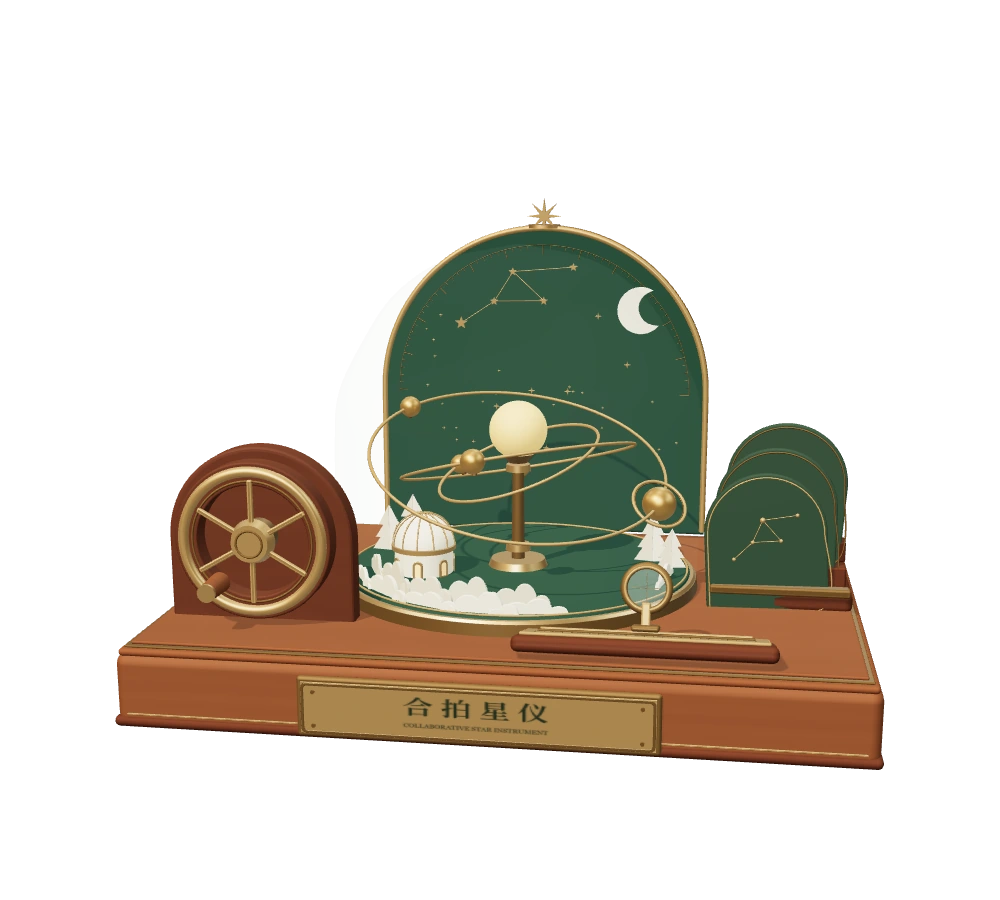
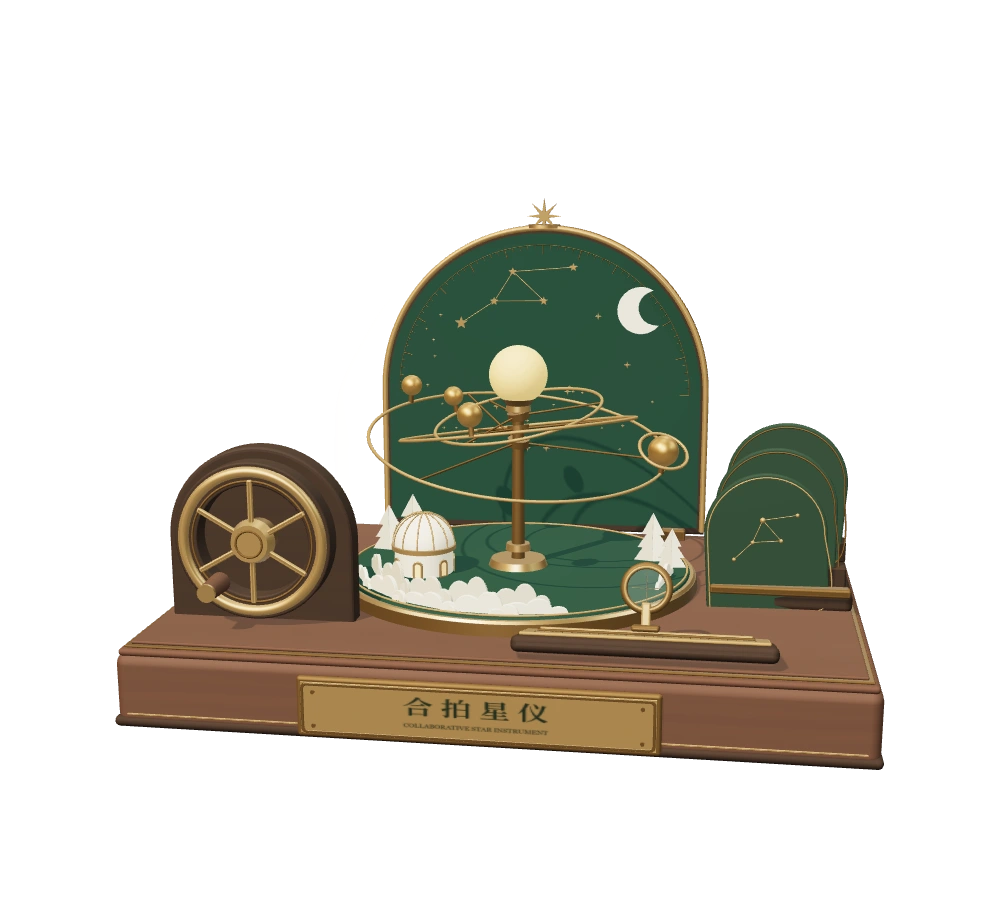
Add optional quick-start guide and cabinet navigation; refine star instrument structure

Changed region(s): [[0.093, 0.3733, 0.899, 0.8711], [0.465, 0.5911, 0.62, 0.6222]]

diff --git a/src/commissions/StarInstrument.tsx b/src/commissions/StarInstrument.tsx
@@ -1,6 +1,6 @@
 import { useEffect, useMemo, useRef } from 'react';
 import { useThree, type ThreeEvent } from '@react-three/fiber';
-import { CanvasTexture, CatmullRomCurve3, DoubleSide, ExtrudeGeometry, Group, LatheGeometry, MathUtils, MeshPhysicalMaterial, MeshStandardMaterial, Path, Plane, Shape, SRGBColorSpace, TubeGeometry, Vector2, Vector3 } from 'three';
+import { CanvasTexture, CatmullRomCurve3, FrontSide, ExtrudeGeometry, Group, LatheGeometry, MathUtils, MeshPhysicalMaterial, MeshStandardMaterial, Path, Plane, Shape, SRGBColorSpace, TubeGeometry, Vector2, Vector3 } from 'three';
 import { BeveledBox, useGeometry } from '../lab3d/Geometry';
 import { useLabMaterials, type LabMaterials } from '../lab3d/materials';
 import StarInstrumentDetails, { INSTRUMENT_CONSTELLATIONS } from './StarInstrumentDetails';
@@ -51,6 +51,7 @@ export default function StarInstrument(props:StarInstrumentProps){
   const wheelPlane=useRef(new Plane(new Vector3(0,0,1),-(WHEEL.z+.33)));
   const aimPlane=useRef(new Plane(new Vector3(0,0,1),-1.36)),hit=useRef(new Vector3());
   const back=useGeometry(()=>new ExtrudeGeometry(arch(4,1.02,2.75),{depth:.095,bevelEnabled:true,bevelSegments:3,bevelSize:.025,bevelThickness:.018,curveSegments:64}),[]);
+  const backInset=useGeometry(()=>new ExtrudeGeometry(arch(3.88,1.08,2.75),{depth:.025,bevelEnabled:false,curveSegments:64}),[]);
   const housing=useGeometry(()=>new ExtrudeGeometry(arch(1.84,.81,1.77),{depth:.19,bevelEnabled:true,bevelSegments:3,bevelSize:.045,bevelThickness:.025,curveSegments:48}),[]);
   const card=useGeometry(()=>new ExtrudeGeometry(arch(1.23,-.69,.13),{depth:.055,bevelEnabled:true,bevelSegments:2,bevelSize:.018,bevelThickness:.01,curveSegments:48}),[]);
   const wheelRim=useGeometry(()=>{
@@ -82,7 +83,7 @@ export default function StarInstrument(props:StarInstrumentProps){
     const backdrop=materials.velvet.clone();backdrop.color.set('#173d30');backdrop.roughness=.91;
     const chart=materials.velvet.clone();chart.color.set('#243d2e');chart.roughness=.82;
     const sun=new MeshStandardMaterial({color:'#f5dfab',map:texture,emissive:'#e7bd6c',emissiveIntensity:.38,roughness:.81,metalness:0});
-    const glassMaterial=new MeshPhysicalMaterial({color:'#bdd0b9',transparent:true,opacity:.032,roughness:.15,metalness:0,clearcoat:.65,clearcoatRoughness:.20,side:DoubleSide,depthWrite:false,envMapIntensity:.7});
+    const glassMaterial=new MeshPhysicalMaterial({color:'#e5e7df',transparent:true,opacity:.012,roughness:.08,metalness:0,clearcoat:.3,clearcoatRoughness:.20,side:FrontSide,depthWrite:false,envMapIntensity:.7});
     const lens=glassMaterial.clone();lens.opacity=.25;lens.color.set('#b5c7b1');
     return{orbit,planet,backdrop,chart,sun,glassMaterial,lens,texture};
   },[materials]);
@@ -148,7 +149,9 @@ export default function StarInstrument(props:StarInstrumentProps){
     {/* The arch is a thick real backboard; the cover is a distinct curved shell. */}
     {/* The rear face includes clearance for the tilted Saturn ring and bevel,
         even when the common shaft is turned through a complete revolution. */}
-    <mesh name="star-instrument-backboard" geometry={back} position={[0,0,-2.49]} material={extra.backdrop} castShadow receiveShadow/>
+    <mesh name="star-instrument-backboard" geometry={back} position={[0,0,-2.49]} material={materials.woodEdge} castShadow receiveShadow/>
+    <mesh geometry={backInset} position={[0,0,-2.39]} material={extra.backdrop} receiveShadow/>
+    {[-1.65,1.65].map(x=><BeveledBox key={x} name="star-screen-foot" size={[.30,.14,.35]} position={[x,1,-2.43]} radius={.025} material={materials.brassDark}/>)}
     <mesh geometry={archRim} position={[0,0,-2.38]} material={extra.orbit} castShadow/>
     <mesh geometry={archRim} position={[0,0,-2.525]} material={materials.brassDark}/>
     <mesh name="star-instrument-glass" geometry={glass} position={[0,0,-.25]} material={extra.glassMaterial} renderOrder={8}/>
@@ -158,16 +161,16 @@ export default function StarInstrument(props:StarInstrumentProps){
     <mesh position={[0,1.129,-.25]} rotation={[Math.PI/2,0,0]} material={materials.brass}><torusGeometry args={[1.88,.012,8,128]}/></mesh>
 
     {/* Three differently inclined, physically round tracks with spherical planets. */}
-    <group name="star-instrument-orbits" position={[0,2.30,-.25]} rotation={[0,props.orbitAngle,0]}>
-      <OrbitRing radius={1.64} tilt={[.30,0,-.15]} planets={[[.25,.185],[3.7,.12]]} materials={materials} ringMaterial={extra.orbit} planetMaterial={extra.planet} saturn/>
-      <OrbitRing radius={1.30} tilt={[-.24,0,.18]} planets={[[1.8,.13],[4.6,.105]]} materials={materials} ringMaterial={extra.orbit} planetMaterial={extra.planet}/>
-      <OrbitRing radius={.93} tilt={[.18,0,.32]} planets={[[3.7,.11]]} materials={materials} ringMaterial={extra.orbit} planetMaterial={extra.planet}/>
+    <group name="star-instrument-orbits" position={[0,2.52,-.25]} rotation={[0,props.orbitAngle,0]}>
+      <OrbitRing radius={1.64} elevation={0} tilt={[.16,0,-.10]} planets={[[.25,.165],[3.7,.12]]} materials={materials} ringMaterial={extra.orbit} planetMaterial={extra.planet} saturn/>
+      <OrbitRing radius={1.30} elevation={.15} tilt={[-.14,0,.12]} planets={[[1.8,.13],[4.6,.105]]} materials={materials} ringMaterial={extra.orbit} planetMaterial={extra.planet}/>
+      <OrbitRing radius={.93} elevation={.30} tilt={[.13,0,.18]} planets={[[3.7,.11]]} materials={materials} ringMaterial={extra.orbit} planetMaterial={extra.planet}/>
     </group>
-    <mesh name="star-instrument-main-shaft" position={[0,1.69,-.25]} material={materials.brassDark} castShadow><cylinderGeometry args={[.061,.075,1.14,32]}/></mesh>
-    {[1.17,1.34,2.24].map((y,i)=><mesh key={y} position={[0,y,-.25]} material={extra.orbit} castShadow><cylinderGeometry args={[i===0?.30:.13,i===0?.33:.14,i===0?.08:.075,48]}/></mesh>)}
-    <mesh position={[0,2.36,-.25]} material={materials.brassDark} castShadow><cylinderGeometry args={[.20,.11,.12,48]}/></mesh>
-    <mesh name="star-instrument-sun" position={[0,2.66,-.25]} material={extra.sun} castShadow><sphereGeometry args={[.32,48,32]}/></mesh>
-    <pointLight position={[0,2.67,-.20]} color="#f0c679" intensity={.6} distance={3.7} decay={2}/>
+    <mesh name="star-instrument-main-shaft" position={[0,2.035,-.25]} material={materials.brassDark} castShadow><cylinderGeometry args={[.061,.075,1.83,32]}/></mesh>
+    {[1.17,1.34,2.91].map((y,i)=><mesh key={y} position={[0,y,-.25]} material={extra.orbit} castShadow><cylinderGeometry args={[i===0?.30:.13,i===0?.33:.14,i===0?.08:.075,48]}/></mesh>)}
+    <mesh position={[0,2.97,-.25]} material={materials.brassDark} castShadow><cylinderGeometry args={[.20,.11,.12,48]}/></mesh>
+    <mesh name="star-instrument-sun" position={[0,3.27,-.25]} material={extra.sun} castShadow><sphereGeometry args={[.32,48,32]}/></mesh>
+    <pointLight position={[0,3.28,-.20]} color="#f0c679" intensity={.6} distance={3.7} decay={2}/>
 
     {/* Front-facing wooden hand wheel: its spokes and handle really rotate. */}
     <group name="star-instrument-wheel-assembly">
@@ -229,17 +232,19 @@ export default function StarInstrument(props:StarInstrumentProps){
   </group>;
 }
 
-function OrbitRing({radius,tilt,planets,materials,ringMaterial,planetMaterial,saturn=false}:{radius:number;tilt:[number,number,number];planets:[number,number][];materials:LabMaterials;ringMaterial:MeshStandardMaterial;planetMaterial:MeshStandardMaterial;saturn?:boolean}){
+function OrbitRing({radius,elevation,tilt,planets,materials,ringMaterial,planetMaterial,saturn=false}:{radius:number;elevation:number;tilt:[number,number,number];planets:[number,number][];materials:LabMaterials;ringMaterial:MeshStandardMaterial;planetMaterial:MeshStandardMaterial;saturn?:boolean}){
   // The complete circular tubes can rotate through 360° in front of the rear
   // board. Each tube retains a round section; planets are not scaled flat.
   const depth=1;
   const geometry=useGeometry(()=>new TubeGeometry(new CatmullRomCurve3(Array.from({length:64},(_,index)=>{const angle=index/64*Math.PI*2;return new Vector3(Math.cos(angle)*radius,0,Math.sin(angle)*radius*depth);}),true),160,.018,10,true),[radius]);
-  return <group name={`star-instrument-orbit-${radius}`} rotation={tilt}>
+  return <group name={`star-instrument-orbit-${radius}`} position={[0,elevation,0]} rotation={tilt}>
+    <mesh name={`star-instrument-bearing-${radius}`} material={materials.brassDark}><cylinderGeometry args={[.12,.12,.08,24]}/></mesh>
+    {[0,1,2].map(index=><group key={index} rotation={[0,index*Math.PI*2/3,0]}><mesh name="orbit-support-spoke" position={[radius/2,0,0]} rotation={[0,0,-Math.PI/2]} material={materials.brassDark}><cylinderGeometry args={[.012,.012,radius,8]}/></mesh></group>)}
     <mesh name={`star-instrument-orbit-tube-${radius}`} geometry={geometry} material={ringMaterial} castShadow/>
     {planets.map(([angle,size],index)=><group name={`star-instrument-planet-mount-${radius}-${index}`} key={angle} position={[Math.cos(angle)*radius,0,Math.sin(angle)*radius*depth]}>
-      <mesh name={`star-instrument-planet-${radius}-${index}`} material={planetMaterial} castShadow receiveShadow><sphereGeometry args={[size,36,24]}/></mesh>
-      <mesh position={[0,-size*.82,0]} material={materials.brassDark}><cylinderGeometry args={[.032,.026,.08,16]}/></mesh>
-      {saturn&&index===0&&<group name="star-instrument-saturn-crown" rotation={[.35,0,-.22]}><mesh rotation={[Math.PI/2,0,0]} material={ringMaterial}><torusGeometry args={[size*1.6,.018,8,64]}/></mesh><mesh rotation={[Math.PI/2,0,0]} material={materials.brassDark}><torusGeometry args={[size*1.48,.005,6,64]}/></mesh></group>}
+      <mesh name={`star-instrument-planet-${radius}-${index}`} position={[0,size+.09,0]} material={planetMaterial} castShadow receiveShadow><sphereGeometry args={[size,36,24]}/></mesh>
+      <mesh name="planet-support-stem" position={[0,.07,0]} material={materials.brassDark}><cylinderGeometry args={[.025,.032,.14,16]}/></mesh>
+      {saturn&&index===0&&<group name="star-instrument-saturn-crown" position={[0,size+.09,0]} rotation={[.35,0,-.22]}><mesh rotation={[Math.PI/2,0,0]} material={ringMaterial}><torusGeometry args={[size*1.6,.018,8,64]}/></mesh><mesh rotation={[Math.PI/2,0,0]} material={materials.brassDark}><torusGeometry args={[size*1.48,.005,6,64]}/></mesh></group>}
     </group>)}
   </group>;
 }

diff --git a/src/responsive-polish.css b/src/responsive-polish.css
@@ -184,9 +184,49 @@
 .stage-gears .tool-panel:has(.parts-tray .selected)>.ask-button>strong{color:#f2ddb1}
 
 /* The collection is reachable immediately, alongside the sound control. */
-.museum-nav{display:inline-flex;align-items:center;gap:12px;min-height:44px;padding:7px 10px;background:none;border:0;color:#d8cfaf;font-size:13px;white-space:nowrap}
-.museum-nav:hover{color:#f0d4a3}
-.museum-nav>span{font-size:18px}
+.site-header .collection-entry,.site-header .quick-guide-trigger{display:inline-flex;align-items:center;justify-content:center;gap:9px;min-height:44px;padding:8px 13px;color:#e2d2ac;font-size:13px;white-space:nowrap;border-radius:4px}
+.site-header .collection-entry{background:#30443c;border:1px solid #9c8c626b}
+.site-header .collection-entry:hover{background:#405344;border-color:#c8b484}
+.site-header .quick-guide-trigger{background:none;border:1px solid transparent;color:#d5dcc4}
+.site-header .quick-guide-trigger:hover{background:#bcc4a411}
+.collection-entry svg,.quick-guide-trigger svg{width:22px;height:22px;flex-shrink:0}
+.site-header .collection-entry:focus-visible,.quick-guide-trigger:focus-visible{outline:2px solid #e1c48f;outline-offset:4px}
+.quick-guide{position:fixed;inset:var(--guide-top,90px) max(16px,5.2vw) auto auto;width:min(430px,calc(100vw - 28px));max-height:calc(100dvh - var(--guide-top,90px) - 16px);overflow-y:auto;overscroll-behavior:contain;margin:0;padding:25px 28px 22px;border:0;box-shadow:0 15px 45px #071c2166;color:#2d493d;scrollbar-width:thin;scrollbar-color:#8d9876 #e8e1c9}
+.quick-guide::backdrop{background:transparent}
+.quick-guide-heading{display:flex;align-items:center;justify-content:space-between;gap:12px}
+.quick-guide-heading h2{font-family:'Songti SC','SimSun',serif;font-size:24px;font-weight:500;line-height:1.5;margin:0}
+.quick-guide-close{display:grid;place-items:center;min-width:40px;min-height:40px;padding:8px;background:none;border:0;color:#3e5846}
+.quick-guide-close svg{width:20px;height:20px}
+.quick-guide-intro{font-size:13px;line-height:1.8;margin:9px 0 23px;color:#506248}
+.quick-guide-steps{list-style:none;margin:0;padding:0;display:grid;gap:19px}
+.quick-guide-steps li{display:grid;grid-template-columns:26px 1fr;gap:13px}
+.quick-guide-steps li>span{font:italic 20px Georgia,serif;color:#856137;padding-top:3px}
+.quick-guide-steps h3{font-size:16px;font-weight:500;line-height:1.5;margin:0 0 5px}
+.quick-guide-steps p{font-size:13px;line-height:1.8;color:#4b5e47;margin:0}
+.quick-guide-mode{margin:24px 0 16px;padding-top:15px;border-top:1px solid #a5ac8c88;font-size:12px;line-height:1.9;color:#4c6148}
+.quick-guide-mode strong{display:block;font-size:13px;color:#304c3b;font-weight:500;margin-bottom:4px}
+.quick-guide-action{display:flex;align-items:center;justify-content:space-between;gap:15px;width:100%;min-height:47px;padding:10px 14px;background:#304c3e;color:#f0e5c9;border:0;border-radius:3px;font-size:13px}
+.quick-guide-action svg{width:20px;height:20px}
+.quick-guide-action:hover{background:#3e5b49}
+.quick-guide-action:disabled{opacity:.5;cursor:wait}
+.quick-guide button:focus-visible{outline:2px solid #73572e;outline-offset:3px}
+@media(max-width:1100px) and (min-width:601px){.site-header:has(.collection-entry)>.header-note{display:none}.site-header .header-actions{gap:4px}.site-header .collection-entry,.site-header .quick-guide-trigger{padding-inline:9px}}
+@media(max-width:600px){
+  .site-header:has(.collection-entry){display:grid;grid-template-columns:1fr auto;grid-template-rows:auto auto;height:auto;min-height:116px;padding:12px 20px 8px;row-gap:4px}
+  .site-header:has(.collection-entry)>.brand{grid-area:1 / 1}
+  .site-header:has(.collection-entry)>.header-note{display:none}
+  .site-header:has(.collection-entry) .header-actions{display:contents}
+  .site-header:has(.collection-entry) .sound-control{grid-area:1 / 2;justify-self:end}
+  .site-header:has(.collection-entry) .collection-entry{grid-area:2 / 1;justify-self:end;margin-right:8px}
+  .site-header:has(.collection-entry) .quick-guide-trigger{grid-area:2 / 2}
+  .site-header .collection-entry,.site-header .quick-guide-trigger{font-size:12px;gap:7px;min-height:40px;padding:6px 11px}
+  .in-room .site-header .quick-guide-trigger{padding:6px;min-width:34px}
+  .in-room .site-header .quick-guide-trigger>span{display:none}
+  .in-room .site-header .header-actions{gap:0}
+  .quick-guide{right:14px;padding:20px 21px}
+  .quick-guide-heading h2{font-size:22px}
+}
+
 .score-world-preview{grid-template-rows:minmax(0,1fr);gap:0}
 .arrangement-finish{display:block}
 .arrangement-finish>span{display:block;margin-bottom:10px}
@@ -194,9 +234,6 @@
 .arrangement-finish .finish-picker button{justify-content:flex-start;gap:10px;min-height:46px;padding:8px 12px;border:1px solid #adb59c;border-radius:3px;background:transparent;color:#3c5342;font-size:13px}
 .arrangement-finish .finish-picker button.active{background:#c7d0b2;border-color:#536d4e;box-shadow:inset 0 0 0 1px #536d4e}
 .arrangement-finish .finish-picker i{width:20px;height:20px;border:1px solid #46584477;flex-shrink:0}
-@media(max-width:600px){
-  .site-header .museum-nav{font-size:12px;gap:6px;padding-inline:5px}
-}
 
 /* Budget the waiting view against the screen; the object takes remaining height.
    Short windows and phones keep natural scrolling so no control is clipped. */

diff --git a/src/App.tsx b/src/App.tsx
@@ -29,6 +29,7 @@ import brandEmblem from './assets/hepai-emblem-v2.png';
 import { IS_STATIC_DEMO } from './runtimeMode';
 import CollaborationEntry, { type CollaborationIntent } from './CollaborationEntry';
 import SoundControl from './SoundControl';
+import QuickStartGuide, { CabinetIcon } from './QuickStartGuide';
 import { FINISH_IDS, FINISH_NAMES } from '../shared/finishes';
 import { FINISH_PALETTES } from './finishes';
 
@@ -289,7 +290,7 @@ function App(){
   function roleName(){return snap?.stage==='arrange'?(snap.self==='A'?'主旋律':'伴奏'):snap?.role==='guide'?'图纸师':'装配师';}
 
   return <div className={`app ${snap&&!museum&&!viewWork?'in-room':''} ${museum?'museum-view':''}`}>
-    <header className="site-header"><Brand onClick={home}/>{snap&&!museum&&!viewWork?<div className="room-header"><span className="stage-title"><small>{step===0?'准备':`0${step} / 05`}</small>{stageNames[snap.stage]}</span><span className="role-badge">{snap.self} · {roleName()}</span>{connection()}</div>:<span className="header-note">夜色里的小型手作修理铺<span className="tiny-line"/></span>}<div className="header-actions">{!snap&&!museum&&!viewWork&&!takeover&&<button className="museum-nav" data-testid="museum-entry" onClick={visitMuseum}>收藏室 <Arrow/></button>}{soundControl()}{snap&&!museum&&!viewWork&&<button className="subtle exit-button" onClick={()=>setLeaveOpen(true)}>离开工位 <span aria-hidden="true">↗</span></button>}</div></header>
+    <header className="site-header"><Brand onClick={home}/>{snap&&!museum&&!viewWork?<div className="room-header"><span className="stage-title"><small>{step===0?'准备':`0${step} / 05`}</small>{stageNames[snap.stage]}</span><span className="role-badge">{snap.self} · {roleName()}</span>{connection()}</div>:<span className="header-note">夜色里的小型手作修理铺<span className="tiny-line"/></span>}<div className="header-actions">{!snap&&!museum&&!viewWork&&!takeover&&<button className="collection-entry" data-testid="museum-entry" onClick={visitMuseum}><CabinetIcon/><span>收藏室</span></button>}{!takeover&&<QuickStartGuide demo={IS_STATIC_DEMO||snap?.mode==='demo'} inRoom={!!snap&&!museum&&!viewWork} onTry={!snap&&!museum&&!viewWork?()=>{void enter('demo');}:undefined} disabled={busy||restoring||!connected}/>}{soundControl()}{snap&&!museum&&!viewWork&&<button className="subtle exit-button" onClick={()=>setLeaveOpen(true)}>离开工位 <span aria-hidden="true">↗</span></button>}</div></header>
 
     {takeover?<main className="empty-view"><span className="section-kicker">身份已由另一页接过</span><h1>请在新页面继续修理。</h1><p>{takeover}</p><button className="secondary" onClick={()=>{setTakeover('');socketRef.current?.connect();home();}}>以新的访客回到门口</button></main>:museum?<Museum playback={{playing,highlight,audibleVersion,clock:playbackClock,onPlay:version=>{if(muted){promptSound();return;}playComposition(version);},onStop:stopPlayback}} createDisabled={busy||restoring||!connected} onBack={()=>{setMuseum(false);history.replaceState(null,'',location.pathname);}} onCreate={()=>enter(IS_STATIC_DEMO?'demo':'real')} onSelect={openExhibit} onPersonalWorks={()=>setArchive(true)}/>:viewWork?<main className="shared-view"><div className="section-kicker">{publicWork?'一份共同完成的旋律':'留在你这里的作品'} / NO. 001</div><h1>{viewWork.title}</h1><p>{new Date(viewWork.completedAt).toLocaleDateString('zh-CN',{timeZone:'Asia/Shanghai'})} · {workSoundSummary(viewWork)}{viewWork.demo?' · 单人演示':''}</p><div className="shared-box">{box(true)}</div><p className="observe-instruction">拖动音乐盒可环绕欣赏，滚轮或双指缩放；右上角可开合盒盖、恢复视角。</p><div className="completion-actions"><button className="primary" data-testid="replay" onClick={()=>playWork(viewWork)}>{playing?'从头再听':'重播这段旋律'} <span>♫</span></button><button className="secondary" onClick={()=>saveCard(viewWork).catch(e=>notify(e.message))}>保存作品图片</button></div>{publicWork&&<div className="relay-invite"><p>喜欢这份风格？把它接到下一张工作台。</p><button className="text-link" onClick={()=>enter('real',false,publicWork.shareId)}>沿用这份风格，和朋友修一只 <Arrow/></button><small>新建工位，继承外观与音色偏好，从头一起修。</small></div>}<button className="subtle" onClick={museumOrigin.current?visitMuseum:home}>{museumOrigin.current?'回到小展柜':'今天就到这里'}</button></main>
      :sessionUnavailable?<main className="empty-view session-unavailable" data-testid="session-unavailable"><span className="section-kicker">这张工位已收起</span><h1>回到门口，再一起开始。</h1><p>{sessionUnavailable}<br/>已留存在这台浏览器里的作品仍然保留。</p><button className="primary" data-testid="session-unavailable-home" onClick={home}>返回门口 <Arrow/></button><button className="subtle" onClick={()=>{home();setArchive(true);}}>看看留存的作品</button></main>

diff --git a/src/QuickStartGuide.tsx b/src/QuickStartGuide.tsx
@@ -1,0 +1,33 @@
+import { useId, useRef } from 'react';
+
+export function CabinetIcon(){
+  return <svg viewBox="0 0 24 24" fill="none" stroke="currentColor" strokeWidth="1.4" strokeLinecap="round" strokeLinejoin="round" aria-hidden="true"><path d="M5 21v-2m14 2v-2M4 4h16v15H4zM4 14h16M12 4v10M7 17h3m4 0h3"/><path d="M7 11V8h2v3m6 0V8h2v3"/></svg>;
+}
+function BookIcon(){
+  return <svg viewBox="0 0 24 24" fill="none" stroke="currentColor" strokeWidth="1.4" strokeLinecap="round" strokeLinejoin="round" aria-hidden="true"><path d="M12 6C9 4 6 4 3 5v14c3-1 6-1 9 1 3-2 6-2 9-1V5c-3-1-6-1-9 1zm0 0v14M6 8h3m-3 3h3m6-3h3m-3 3h3"/></svg>;
+}
+
+/** Optional native popover: light-dismiss and Escape work without trapping a visitor in a tour. */
+export default function QuickStartGuide({demo,inRoom,onTry,disabled=false}:{demo:boolean;inRoom:boolean;onTry?:()=>void;disabled?:boolean}){
+  const id=useId(),panel=useRef<HTMLDivElement>(null),trigger=useRef<HTMLButtonElement>(null);
+  const place=()=>{
+    if(!panel.current||!trigger.current)return;
+    const top=Math.min(trigger.current.getBoundingClientRect().bottom+12,innerHeight*.3);
+    panel.current.style.setProperty('--guide-top',`${top}px`);
+  };
+  const close=()=>{panel.current?.hidePopover();trigger.current?.focus();};
+  return <>
+    <button ref={trigger} className="quick-guide-trigger" data-testid="quick-guide-open" popoverTarget={id} onClick={place} aria-label="怎么玩"><BookIcon/><span>怎么玩</span></button>
+    <div ref={panel} id={id} popover="auto" className="quick-guide paper-panel" role="region" aria-labelledby={`${id}-title`} data-testid="quick-guide">
+      <div className="quick-guide-heading"><h2 id={`${id}-title`}>一起修好，怎么玩？</h2><button className="quick-guide-close" aria-label="关闭玩法说明" onClick={close}><svg viewBox="0 0 24 24" fill="none" stroke="currentColor" strokeWidth="1.5" aria-hidden="true"><path d="m6 6 12 12M18 6 6 18"/></svg></button></div>
+      <p className="quick-guide-intro">不用会机械，也不用懂乐理。<br/>跟着手里的工具，一次做一件小事。</p>
+      <ol className="quick-guide-steps">
+        <li><span aria-hidden="true">01</span><div><h3>先互相帮个忙</h3><p>A 看图纸，B 放齿轮。拿不准，就用“这块吗？”请伙伴确认。接着交换工具，把声音片接回去。</p></div></li>
+        <li><span aria-hidden="true">02</span><div><h3>再编一段合奏</h3><p>各改自己的声部，一起试听。喜欢这一版，就分别确认；有新改动时，再听一次。</p></div></li>
+        <li><span aria-hidden="true">03</span><div><h3>最后一起启动</h3><p>A 转摇柄上弦，B 拨启动片。也可以点按钮操作。演出后可留纸签，也可以直接结束。</p></div></li>
+      </ol>
+      <p className="quick-guide-mode">{demo?<><strong>现在是单人演示</strong>用底部“切换到 A / B”轮流体验两份工具，两个角色都要确认准备。想试听时，先点右上角喇叭。</>:<><strong>和伙伴一起体验</strong>一人开工位，另一人用工位码加入。面对面说说你看见的线索，再一起动手。</>}</p>
+      <button className="quick-guide-action" disabled={!inRoom&&!!onTry&&disabled} onClick={()=>{close();if(!inRoom)onTry?.();}}>{inRoom?'回到工位':onTry?'明白了，先一个人试试':'明白了，继续看看'}<svg viewBox="0 0 24 24" fill="none" stroke="currentColor" strokeWidth="1.5" aria-hidden="true"><path d="M4 12h15m-6-6 6 6-6 6"/></svg></button>
+    </div>
+  </>;
+}
